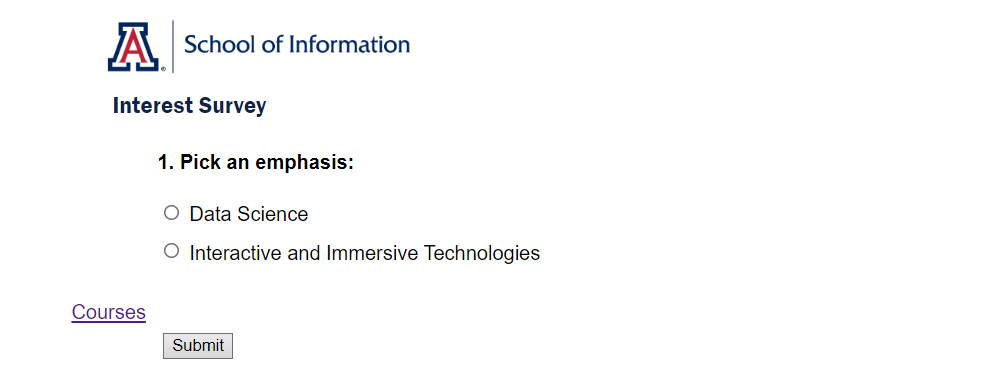
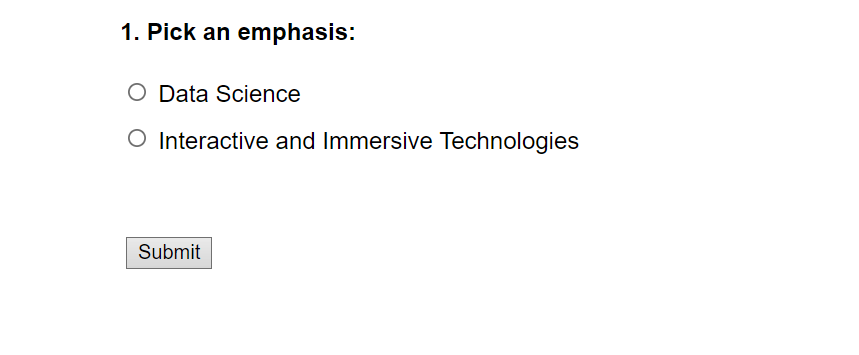
instructions -ew

diff --git a/public/instructions.html b/public/instructions.html
@@ -86,6 +86,20 @@
             width: 850px;
         }
 
+        #instructionssample6 {
+            position: relative;
+            margin-top: 5px;
+            margin-bottom: 5px;
+            width: 850px;
+        }
+
+        #instructionssample7 {
+            position: relative;
+            margin-top: 5px;
+            margin-bottom: 5px;
+            width: 95%;
+        }
+
         #bottom {
             background-color: beige;
             position: relative;
@@ -174,7 +188,7 @@
     <div id="instructions">
 
         <a>
-            This site well help you plan out your four year academic career at the University of Arizona
+            This tool will help you plan out your four year academic career at the University of Arizona
 
         </a>
 
@@ -216,6 +230,20 @@
         <img id="instructionssample3" src="instructionssample3.png" alt="Sample course planner node">
 
         <br>
+        
+
+        <a>
+            In the interest survey, you must first select your current major empahsis. Once done, you'll be able to give a repsonse to the rest 
+            of the questions.
+        </a>
+
+        <br>
+        <br>
+        <br>
+
+        <img id="instructionssample6" src="instructionssample6.png" alt="Rest of interest survey">
+
+        <br>
         <br>
         <br>
 
@@ -232,6 +260,12 @@
             Once you've chosen what classes you want to take, it's time to put them in your planner. After you've made your way to the
             course planner tab, you can choose to add any class to one of the semesters.
         </a>
+
+        <br>
+        <br>
+        <br>
+
+        <img id="instructionssample7" src="instructionssample7.png" alt="4 Year Planner">
 
         <br>
         <br>
